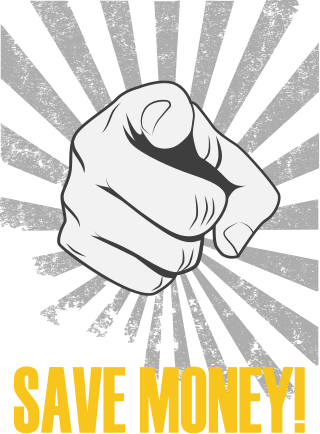
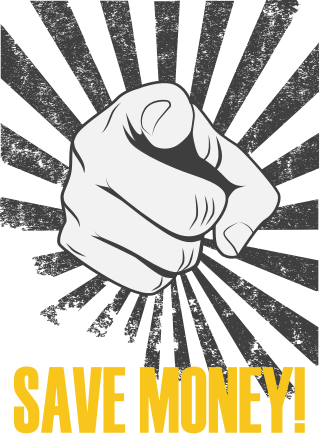
commit 14
сделал Ipad версию

diff --git a/style/media.css b/style/media.css
@@ -1,6 +1,6 @@
 
 /*ПЛАНШЕТ*/
-@media only screen and (min-width: 769px) and (max-width: 1023px) {
+@media only screen and (min-width: 768px) and (max-width: 1023px) {
     .container {
         width: 720px;
     }
@@ -71,11 +71,117 @@
         flex-basis: 44%;
     }
 
-    .save-money-item2{
-        img{
-
-        }
+    .save-money-section .save-money-item1{
+        flex-basis: 70%;
+        margin-top: 51px;
     }
+
+    .save-money-item1 .save-money-item-text:after{
+        left: 0;
+    }
+
+    .save-money-section{
+        padding-bottom: 30px;
+    }
+
+    .save-money-wraper{
+        background-position: 100%;
+    }
+
+    .tovxin-description-flex{
+        flex-direction: column;
+    }
+
+    .tovxin-desc-item{
+        display: flex;
+        justify-content: center;
+    }
+
+    .tovxin-description-flex .tovxin-desc-text-item h2{
+        margin-bottom: 30px;
+    }
+
+    .tovxin-desc-text-item .tovxin-desc-text{
+        margin-bottom: 25px;
+    }
+
+    .tovxin-desc-reg{
+        display: flex;
+        justify-content: center;
+    }
+    .calendar-section .calendar-flex-row .calendar-flex-col .calendar-item2{
+        display: none;
+    }
+
+    .calendar-section .calendar-flex-row .calendar-flex-col .calendar-item1{
+        width: 100%;
+    }
+
+    .adv-item-row .adv-item{
+        flex-basis: 50%;
+        height: 170px;
+        margin-bottom: 55px;
+    }
+
+    .adv-item-row1:after{
+        bottom: 69%;
+        width: 110%;
+        transform: translate(-6%, 0);
+    }
+
+    .img-index{
+        padding-left: 0;
+        padding-right: 0;
+    }
+
+    .adv-item-row .adv-item3{
+        border-left: 0;
+        border-right: 1px solid #d9d9d9;
+    }
+
+    .adv-item-row .adv-item1{
+        order: 1;
+    }
+
+    .adv-item-row .adv-item2{
+        order: 2;
+    }
+
+    .adv-item-row .adv-item3{
+        order: 3;
+        border-right: 0;
+    }
+
+    .adv-item-row .adv-item3:after{
+        content: "";
+        height: 1px;
+        background-color: #d9d9d9;
+        position: absolute;
+        width: 112%;
+        bottom: 36%;
+        transform: translate(-30%, 0);
+    }
+
+    .adv-item-row .adv-item4{
+        order: 2;
+    }
+
+    .adv-item-row .adv-item5{
+        order: 2;
+    }
+
+    .adv-item-row .adv-item6{
+        order: 6;
+    }
+
+
+
+
+
+
+
+
+
 
 
 }
@@ -201,7 +307,7 @@
 
 
 
-@media only screen and (max-width: 768px ) {
+@media only screen and (max-width: 767px ) {
     .container {
         width: 100%;
     }

diff --git a/index.html b/index.html
@@ -120,6 +120,7 @@
     </section>
         <!--3th SECTION -->
     <section class="save-money-section">
+        <div class="save-money-wraper">
         <div class="container">
             <div class="save-money-flex row">
                 <div class="save-money-item1 col">
@@ -130,10 +131,11 @@
                         мы будем держать одни и те же сборы не менее 10 лет.
                     </div>
                 </div>
-                <div class="save-money-item2 col">
+                <!--<div class="save-money-item2 col">
                     <img src="img/save-money.svg">
-                </div>
+                </div>-->
             </div>
+        </div>
         </div>
     </section>
 
@@ -208,9 +210,7 @@
                             Трейдеры из 170 стран заинтересованы в сотрудничестве с нами
                         </div>
                     </div>
-                </div>
-                <div class="adv-item-row">
-                    <div class="adv-item adv-item1">
+                    <div class="adv-item adv-item4">
                         <img src="img/gauge.png">
                         <h3>Высокая рабочая скорость</h3>
                         <div class="adv-item-text">
@@ -218,14 +218,14 @@
                             одновременно
                         </div>
                     </div>
-                    <div class="adv-item adv-item2">
+                    <div class="adv-item adv-item5">
                         <img src="img/graph.png">
                         <h3>Четкие и понятные графики</h3>
                         <div class="adv-item-text">
                             Высококачественные графики для анализа позволяют эффективно определять тенденции и показатели
                         </div>
                     </div>
-                    <div class="adv-item adv-item3">
+                    <div class="adv-item adv-item6">
                         <img src="img/okey.png">
                         <h3>Удобный интерфейс</h3>
                         <div class="adv-item-text">

diff --git a/style/style.css b/style/style.css
@@ -4,6 +4,8 @@
     margin: 0;
     padding: 0;
     box-sizing: border-box;
+
+
 }
 
 input[type=number]::-webkit-inner-spin-button,
@@ -595,8 +597,9 @@ body{
 /*3th SECTION*/
 
 .save-money-section{
-    background-image: linear-gradient(256deg, #494949, #232323);
+    background: linear-gradient(256deg, #494949, #232323);
     padding-bottom: 60px;
+
 }
 
 .save-money-flex{
@@ -605,8 +608,17 @@ body{
     justify-content: space-between;
 }
 
+.save-money-wraper{
+    background-image: url("../img/save-money.svg");
+    background-repeat: no-repeat;
+    height: 433px;
+    background-position: 66%;
+
+}
+
 .save-money-section .save-money-item1{
     flex-basis: 51%;
+    margin-top: 91px;
 }
 
 .save-money-section .save-money-item1 h2{
@@ -783,7 +795,7 @@ body{
 /*6th-Section*/
 .advantages-section{
     padding-top: 80px;
-    padding-bottom: 90px;
+    padding-bottom: 10px;
 }
 
 .advantages-section .adv-flex-row h2{
@@ -807,6 +819,8 @@ body{
 .adv-item-row{
     display: flex;
     text-align: center;
+    flex-direction: row;
+    flex-wrap: wrap;
 }
 
 .adv-item-row1{
@@ -820,13 +834,18 @@ body{
     background-color: #d9d9d9;
     position: absolute;
     width: 100%;
-    bottom: -12%;
+    bottom: 55%;
 }
 
 .adv-item-row .adv-item{
     padding-left: 34px;
     padding-right: 34px;
-    flex-basis: 34%;
+    flex-basis: 33%;
+    margin-bottom: 43px;
+}
+
+.adv-item4{
+    border-right: 1px solid #d9d9d9;
 }
 
 .adv-item-row .adv-item1{
@@ -834,6 +853,10 @@ body{
 }
 
 .adv-item-row .adv-item3{
+    border-left: 1px solid #d9d9d9;
+}
+
+.adv-item-row .adv-item6{
     border-left: 1px solid #d9d9d9;
 }
 
